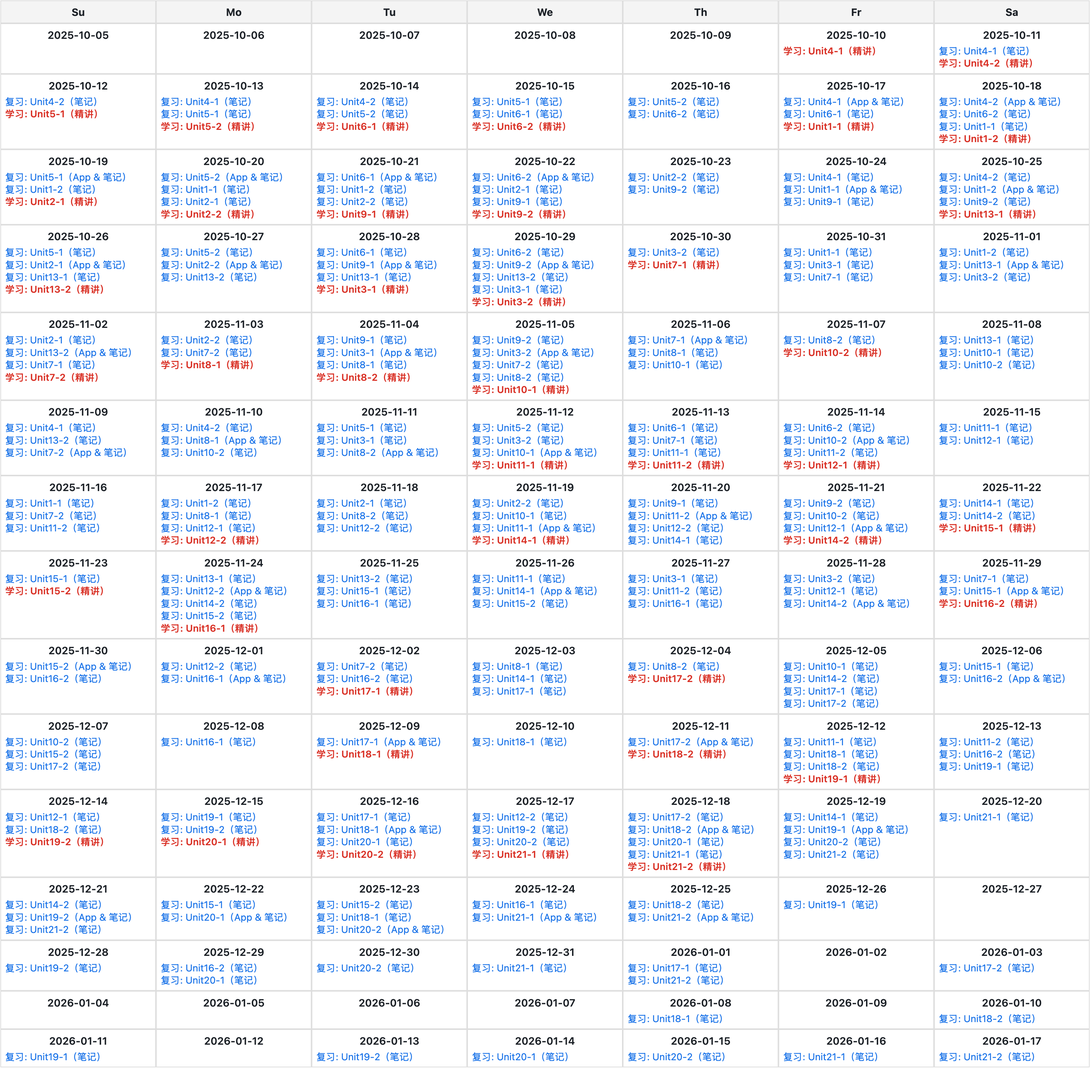
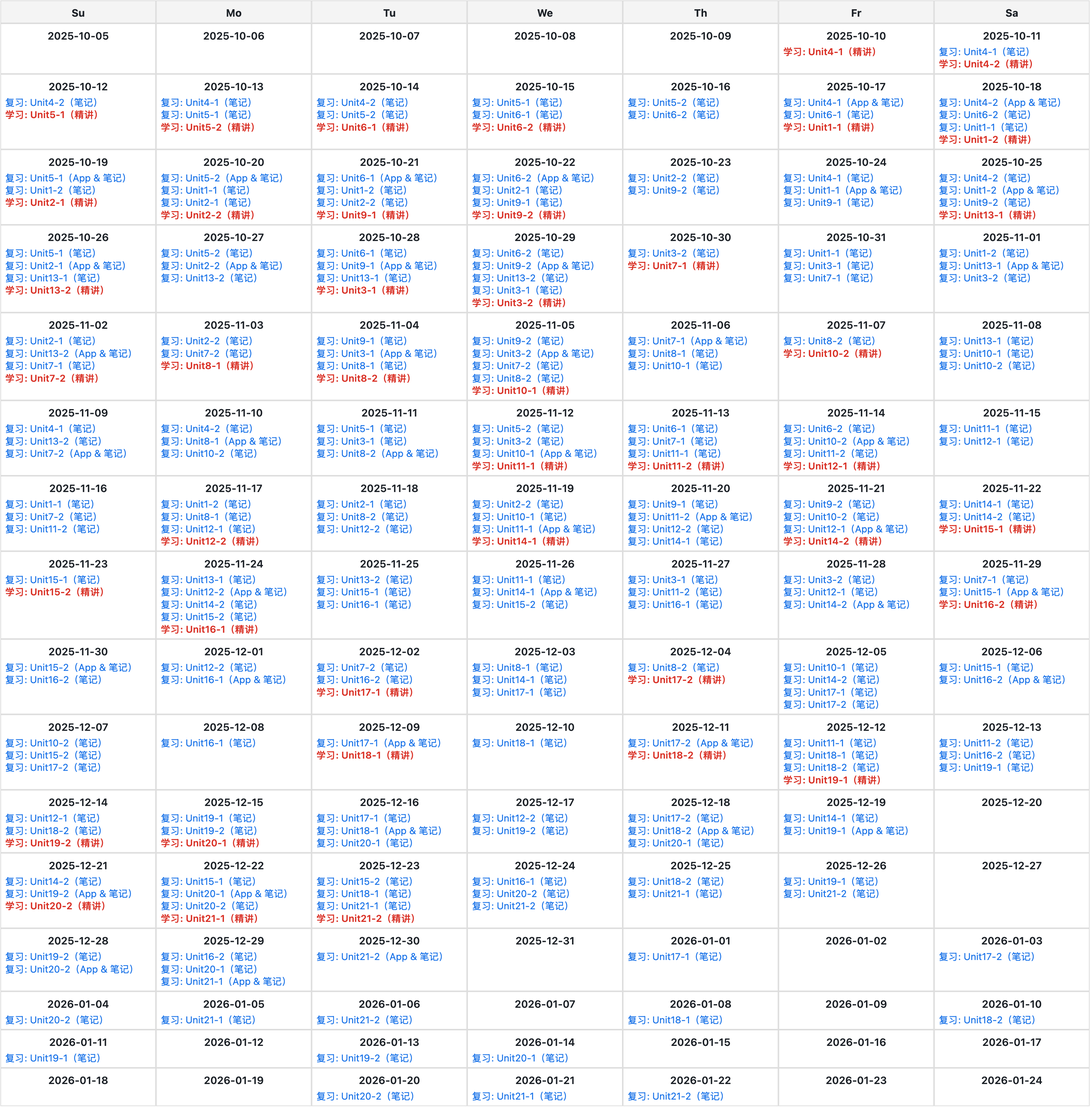
review: Unit 11-1, Unit 17-2

diff --git a/utils/html/generate-forgetting-curve-with-task-duration.html b/utils/html/generate-forgetting-curve-with-task-duration.html
@@ -24,6 +24,24 @@
         .rest-input { width: 100%; box-sizing: border-box; }
         .rounds-container { margin-top: 12px; padding: 6px; border: 1px solid #ddd; border-radius: 6px; }
         .round-input { width: 220px; margin-right: 4px; }
+        .task-type-two-cols {
+            display: grid;
+            grid-template-columns: 1fr 1fr;
+            gap: 24px;
+            margin-bottom: 12px;
+            margin-top: 8px;
+        }
+
+        .task-col {
+            display: flex;
+            flex-direction: column;
+        }
+
+        .task-col label {
+            display: flex;
+            align-items: center;
+            gap: 6px;
+        }
     </style>
     <script src="https://cdn.jsdelivr.net/npm/html2canvas@1.4.1/dist/html2canvas.min.js"></script>
 </head>
@@ -31,18 +49,28 @@
 <h2>艾宾浩斯学习计划生成器（按周日历）</h2>
 
 <div class="controls">
-    <label>选择任务类型:
-        <label><input type="radio" name="task-type" value="write" checked> Write</label>
-        <label><input type="radio" name="task-type" value="writeRecite"> Write Recite</label>
-        <label><input type="radio" name="task-type" value="grammar"> Grammar</label>
-        <label><input type="radio" name="task-type" value="linearAlgebra"> Linear Algebra</label>
-        <label><input type="radio" name="task-type" value="advancedMath"> Advanced Mathematics</label>
-        <label><input type="radio" name="task-type" value="coreWords" checked> Core Words</label>
-        <label><input type="radio" name="task-type" value="lowFrequencyWords&PE" checked> Low-Frequency Words & PE</label>
-        <label><input type="radio" name="task-type" value="advancedMathMo"> Mo Advanced Mathematics</label>
-        <label><input type="radio" name="task-type" value="writeMo"> Mo Write</label>
-        <label><input type="radio" name="task-type" value="lowFrequencyWords&PEMo" checked> Mo Low-Frequency Words & PE</label>
-    </label>
+    <label>选择任务类型:</label>
+
+    <div class="task-type-two-cols">
+        <!-- 左列：常规任务 -->
+        <div class="task-col">
+            <label><input type="radio" name="task-type" value="write"> Write</label>
+            <label><input type="radio" name="task-type" value="writeRecite"> Write Recite</label>
+            <label><input type="radio" name="task-type" value="grammar"> Grammar</label>
+            <label><input type="radio" name="task-type" value="linearAlgebra"> Linear Algebra</label>
+            <label><input type="radio" name="task-type" value="advancedMath"> Advanced Mathematics</label>
+            <label><input type="radio" name="task-type" value="coreWords" checked> Core Words</label>
+            <label><input type="radio" name="task-type" value="lowFrequencyWords&PE"> Low-Frequency Words & PE</label>
+        </div>
+
+        <!-- 右列：Mo 系列 -->
+        <div class="task-col">
+            <label><input type="radio" name="task-type" value="advancedMathMo"> Mo Advanced Mathematics</label>
+            <label><input type="radio" name="task-type" value="writeMo"> Mo Write</label>
+            <label><input type="radio" name="task-type" value="lowFrequencyWords&PEMo"> Mo Low-Frequency Words & PE</label>
+        </div>
+    </div>
+
 
     <button id="load-default-btn" type="button">加载默认设置</button>
 
@@ -186,7 +214,7 @@
         label: 'App & 笔记',
         duration: 1
       }, {label: '笔记', duration: 1}, {label: '笔记', duration: 1}],
-      restDays: '2025-10-16,2025-10-23,2025-10-24,2025-10-27,2025-10-31,2025-11-01,2025-11-06,2025-11-08,2025-11-09,2025-11-10,2025-11-11,2025-11-15,2025-11-16,2025-11-18,2025-11-20,2025-11-25,2025-11-26,2025-11-27,2025-11-28,2025-11-30,2025-12-01,2025-12-03,2025-12-05,2025-12-06,2025-12-07,2025-12-08,2025-12-10,2025-12-13'
+      restDays: '2025-10-16,2025-10-23,2025-10-24,2025-10-27,2025-10-31,2025-11-01,2025-11-06,2025-11-08,2025-11-09,2025-11-10,2025-11-11,2025-11-15,2025-11-16,2025-11-18,2025-11-20,2025-11-25,2025-11-26,2025-11-27,2025-11-28,2025-11-30,2025-12-01,2025-12-03,2025-12-05,2025-12-06,2025-12-07,2025-12-08,2025-12-10,2025-12-13,2025-12-16,2025-12-17,2025-12-18,2025-12-19,2025-12-20'
     },
     write: {
       startDate: '2025-08-12',
@@ -362,21 +390,21 @@
          rounds: [{label: '书', duration: 1}, {label: '复习概念+例题', duration: 1},{label: '做基础题', duration: 2}, {label: '总结', duration: 1}, {label: '做提高题', duration: 2},{label: '复习错题', duration: 1}, {label: '复习笔记', duration: 1}
         ],
       restDays: '2025-12-14,,2025-12-21,2025-12-27,,2025-12-29,,2025-12-31,2026-01-02,2026-01-07,2026-01-09,2026-01-14,2026-01-18,2026-01-21,2026-01-22,2026-01-28,2026-01-29,2026-02-06,2026-02-09'
-    
+
     },
     writeMo: {
       startDate: '2025-12-15',
       reviewDays: '0,1,3,6,15',
       tasks: [
-        {name: '001', duration: 1}, {name: '002', duration: 1}, {name: '003', duration: 1}, {name: '004', duration: 1}, 
+        {name: '001', duration: 1}, {name: '002', duration: 1}, {name: '003', duration: 1}, {name: '004', duration: 1},
         {name: '005', duration: 1}, {name: '006', duration: 1}, {name: '007', duration: 1}, {name: '008', duration: 1},
-        {name: '009', duration: 1}, {name: '010', duration: 1}, 
+        {name: '009', duration: 1}, {name: '010', duration: 1},
         //{name: '011', duration: 1}, {name: '012', duration: 1},
         //{name: '013', duration: 1}, {name: '014', duration: 1}, {name: '015', duration: 1}, {name: '016', duration: 1},
-        //{name: '017', duration: 1}, {name: '018', duration: 1}, {name: '019', duration: 1}, {name: '020', duration: 1}, 
-        {name: '041', duration: 1}, {name: '042', duration: 1}, {name: '043', duration: 1}, {name: '044', duration: 1}, 
+        //{name: '017', duration: 1}, {name: '018', duration: 1}, {name: '019', duration: 1}, {name: '020', duration: 1},
+        {name: '041', duration: 1}, {name: '042', duration: 1}, {name: '043', duration: 1}, {name: '044', duration: 1},
         {name: '045', duration: 1}, {name: '046', duration: 1}, {name: '047', duration: 1}, {name: '048', duration: 1},
-        {name: '049', duration: 1}, {name: '050', duration: 1}, 
+        {name: '049', duration: 1}, {name: '050', duration: 1},
         //{name: '051', duration: 1}, {name: '052', duration: 1},
         //{name: '053', duration: 1}, {name: '054', duration: 1}, {name: '055', duration: 1}, {name: '056', duration: 1},
         //{name: '057', duration: 1}, {name: '058', duration: 1}, {name: '059', duration: 1}, {name: '060', duration: 1}

diff --git a/english/write/041-060_essay.md b/english/write/041-060_essay.md
@@ -61,18 +61,9 @@ In this section, you are asked to write an essay based on the following chart. I
 
 ### Example
 
-&emsp;&emsp;The pie chart clearly illustrates the purposes of touring for students in a certain university. As is
-reflected by the diagram, 37 percent of college students travel in order to appreciate the scenery. Next comes the aim
-of relieving pressure, accounting for 33 percent. By contrast, the percentages of students travelling aiming at other
-goals, making friends and cultivating independence account for 15%, 9% and 6% respectively.<br>
-&emsp;&emsp;Several primary factors could contribute to this phenomenon. In the first place, travel can offer us a wide
-range of experiences. In travelling, we may experience the bitterness and joy of people on different lands and in
-different times. In the second place, college students, who have to juggle academic work, romantic relationships and a
-busy social calendar, are particularly susceptible to pressure. By touring, they can successfully manage and reduce
-stress.<br>
-&emsp;&emsp;Taking all these factors into consideration, we may predict that with the quickening pace and
-ever-increasing pressure of campus life, the number of university students touring will keep growing in the forthcoming
-decade.
+&emsp;&emsp;The pie chart clearly illustrates the purposes of touring for students in a certain university. As is reflected by the diagram, 37 percent of college students travel in order to appreciate the scenery. Next comes the aim of relieving pressure, accounting for 33 percent. By contrast, the percentages of students travelling aiming at other goals, making friends and cultivating independence account for 15%, 9% and 6% respectively.<br> 
+&emsp;&emsp;Several primary factors could contribute to this phenomenon. In the first place, travel can offer us a wide range of experiences. In travelling, we may experience the bitterness and joy of people on different lands and in different times. In the second place, college students, who have to juggle academic work, romantic relationships and a busy social calendar, are particularly susceptible to pressure. By touring, they can successfully manage and reduce stress.<br> 
+&emsp;&emsp;Taking all these factors into consideration, we may predict that with the quickening pace and ever-increasing pressure of campus life, the number of university students touring will keep growing in the forthcoming decade.
 
 ### 译文
 
@@ -93,18 +84,9 @@ In this section, you are asked to write an essay based on the following chart. I
 
 ### Example
 
-&emsp;&emsp;The pie chart above clearly reveals the factors of consumers' concern on choosing restaurants in a certain
-city in 2017. Among all the five categories, the percentages of feature, service and environment are the highest,
-accounting for 36.3%, 26.8% and 23.8% respectively. On the contrary, the statistics of price and other factors take up
-merely 8.4% and 4.7% respectively, the lowest among the five groups.<br>
-&emsp;&emsp;Several primary causes that contribute to the above-mentioned phenomenon could be summarized as follows. In
-the first place, with the prosperity of China's economy and the increase of people's income in recent decades, a large
-number of people are paying more attention to the feature of a restaurant instead of price. In the second place, in a
-bid to develop interpersonal relationship and enjoy comfortable life, consumers in mounting numbers prefer service and
-environment to other factors.<br>
-&emsp;&emsp;With due consideration of all these contributors, we may predict that with the speedy development of our
-society, customers in expanding numbers will attach utmost significance to the feature, service as well as environment
-of a restaurant.
+&emsp;&emsp;The pie chart above clearly reveals the factors of consumers' concern on choosing restaurants in a certain city in 2017. Among all the five categories, the percentages of feature, service and environment are the highest, accounting for 36.3%, 26.8% and 23.8% respectively. On the contrary, the statistics of price and other factors take up merely 8.4% and 4.7% respectively, the lowest among the five groups.<br>
+&emsp;&emsp;Several primary causes that contribute to the above-mentioned phenomenon could be summarized as follows. In the first place, with the prosperity of China's economy and the increase of people's income in recent decades, a large number of people are paying more attention to the feature of a restaurant instead of price. In the second place, in a bid to develop interpersonal relationship and enjoy comfortable life, consumers in mounting numbers prefer service and environment to other factors.<br>
+&emsp;&emsp;With due consideration of all these contributors, we may predict that with the speedy development of our society, customers in expanding numbers will attach utmost significance to the feature, service as well as environment of a restaurant.
 
 ### 译文
 
@@ -150,17 +132,9 @@ In this section, you are asked to write an essay based on the following chart. I
 
 ### Example
 
-&emsp;&emsp;As can be seen from the bar chart above, the express delivery business in China has increased considerably
-between 2018 and 2020. During this three-year period, the total number of express delivery parcels jumped markedly from
-51 billion to 83 billion. In the meantime, the number of express delivery parcels in rural areas rose dramatically from
-12 billion to 30 billion.<br>
-&emsp;&emsp;Why is the express delivery business booming nowadays? Several factors may contribute to this phenomenon. To
-start with, the popularity of electronic commerce and online shopping has laid the foundation for the development of the
-express delivery business. Moreover, as the express delivery business is becoming increasingly mature and relevant laws
-and regulations are improved, people who were at first skeptical about express delivery service now become convinced
-that it is safe and reliable.<br>
-&emsp;&emsp;The boom of the express delivery business undoubtedly contributes to the prosperity of China's economy.
-Accordingly, let us get prepared to embrace this irreversible trend.
+&emsp;&emsp;As can be seen from the bar chart above, the express delivery business in China has increased considerably between 2018 and 2020. During this three-year period, the total number of express delivery parcels jumped markedly from 51 billion to 83 billion. In the meantime, the number of express delivery parcels in rural areas rose dramatically from 12 billion to 30 billion.<br>
+&emsp;&emsp;Why is the express delivery business booming nowadays? Several factors may contribute to this phenomenon. To start with, the popularity of electronic commerce and online shopping has laid the foundation for the development of the express delivery business. Moreover, as the express delivery business is becoming increasingly mature and relevant laws and regulations are improved, people who were at first skeptical about express delivery service now become convinced that it is safe and reliable.<br>
+&emsp;&emsp;The boom of the express delivery business undoubtedly contributes to the prosperity of China's economy. Accordingly, let us get prepared to embrace this irreversible trend.
 
 ### 译文
 
@@ -206,18 +180,9 @@ In this section, you are asked to write an essay based on the following chart. I
 
 ### Example
 
-&emsp;&emsp;The picture vividly depicts a lovely American girl in traditional Chinese costume with a sweet smile on her
-face. She wears ribbons, necklaces and other accessories that are characteristic of the clothes of a certain Chinese
-minority group. Undoubtedly, the costume has added oriental charm to her beautiful features.<br>
-&emsp;&emsp;The fact that people from different countries are attracted to the mysterious Chinese culture indicates that
-to some extent a culture can be accepted, respected, appreciated and shared internationally. In other words, a nation's
-unique culture can become international through worldwide economic and cultural exchanges. Since the trend of
-globalization has become irresistible, increasingly frequent cultural exchanges can effectively improve mutual
-understanding and friendship between countries.<br>
-&emsp;&emsp;It is my view that national culture should be preserved and cherished as a priceless spiritual treasure.
-Nevertheless, when we are confronted with a different culture, we should be sensible enough to absorb its virtues and to
-resist its dark side. Only in this way can we promote culture development positively and make our world
-multidimensional, colorful and vigorous.
+&emsp;&emsp;The picture vividly depicts a lovely American girl in traditional Chinese costume with a sweet smile on her face. She wears ribbons, necklaces and other accessories that are characteristic of the clothes of a certain Chinese minority group. Undoubtedly, the costume has added oriental charm to her beautiful features.<br>
+&emsp;&emsp;The fact that people from different countries are attracted to the mysterious Chinese culture indicates that to some extent a culture can be accepted, respected, appreciated and shared internationally. In other words, a nation's unique culture can become international through worldwide economic and cultural exchanges. Since the trend of globalization has become irresistible, increasingly frequent cultural exchanges can effectively improve mutual understanding and friendship between countries.<br>
+&emsp;&emsp;It is my view that national culture should be preserved and cherished as a priceless spiritual treasure. Nevertheless, when we are confronted with a different culture, we should be sensible enough to absorb its virtues and to resist its dark side. Only in this way can we promote culture development positively and make our world multidimensional, colorful and vigorous.
 
 ### 译文
 
@@ -262,8 +227,7 @@ confronted with, we should never overestimate the difficulties or underestimate 
 
 ### Directions
 
-&emsp;&emsp;Read the following excerpt from an article and write an essay. In your essay, you should explain whether or
-to what extent you agree with the author. Support your argument with reasons and relevant examples.
+&emsp;&emsp;Read the following excerpt from an article and write an essay. In your essay, you should explain whether or to what extent you agree with the author. Support your argument with reasons and relevant examples.
 &emsp;&emsp;Write your answer in about 150 words on the ANSWER SHEET.
 
 &emsp;&emsp;Studies in the U.S. and the U.K. consistently show that children have lost the right to wander. This is why
@@ -275,18 +239,9 @@ screens?
 
 ### Example
 
-&emsp;&emsp;Nowadays, a large number of teenagers have lost the right to play outside and instead indulge in computer
-use. In this excerpt, the author maintains that since parents have robbed their children of the opportunity to wander
-around, a good many youngsters use the computer to socialize with their friends. I agree with the writer's idea.<br>
-&emsp;&emsp;The primary factors that account for the aforementioned phenomenon can be summarized as follows. On the one
-hand, school time can be a period of constant pressure for students. Stressors like upcoming examinations and endless
-assignments take up most of their life, leaving them less and less time for free play. On the other hand, in order not
-to let their children lose at the so-called starting line, many parents force their children to attend various cram
-schools and interest classes, depriving them of the right to play with their peers. Therefore, many teenagers indulge in
-the fictitious world and feel reluctant to approach others.<br>
-&emsp;&emsp;Hence, parents should be sensible enough to give their children more freedom to play with their friends and
-classmates. Meanwhile, it is necessary for teenagers to use technology in a reasonable way and refrain from
-overindulgence.
+&emsp;&emsp;Nowadays, a large number of teenagers have lost the right to play outside and instead indulge in computer use. In this excerpt, the author maintains that since parents have robbed their children of the opportunity to wander around, a good many youngsters use the computer to socialize with their friends. I agree with the writer's idea.<br>
+&emsp;&emsp;The primary factors that account for the aforementioned phenomenon can be summarized as follows. On the one hand, school time can be a period of constant pressure for students. Stressors like upcoming examinations and endless assignments take up most of their life, leaving them less and less time for free play. On the other hand, in order not to let their children lose at the so-called starting line, many parents force their children to attend various cram schools and interest classes, depriving them of the right to play with their peers. Therefore, many teenagers indulge in the fictitious world and feel reluctant to approach others.<br>
+&emsp;&emsp;Hence, parents should be sensible enough to give their children more freedom to play with their friends and classmates. Meanwhile, it is necessary for teenagers to use technology in a reasonable way and refrain from overindulgence.
 
 ### 译文
 

diff --git a/english/write/001-020_letter.md b/english/write/001-020_letter.md
@@ -44,12 +44,8 @@ Do not sign your own name at the end of the letter. Use “Zhang Wei” instead.
 ### Example
 
 Dear Bob,<br>
-&emsp;&emsp;I have just arrived at my home from the airport. As I sit down at my desk, I just want to write a letter to
-you to thank you for your warm **reception** in the **cultural** exchange program. You and your family left a deep
-impression upon me. Indeed, the program is one of the most wonderful **memories** in my life.<br>
-&emsp;&emsp;I remember you **mentioned** wanting to **travel** in China. Well, if you come to China, you will be warmly
-welcomed, and it will be my pleasure to be your guide here. If you would like, send me a list beforehand of the places
-you would like to visit.<br>
+&emsp;&emsp;I have just arrived at my home from the airport. As I sit down at my desk, I just want to write a letter to you to thank you for your warm **reception** in the **cultural** exchange program. You and your family left a deep impression upon me. Indeed, the program is one of the most wonderful **memories** in my life.<br>
+&emsp;&emsp;I remember you **mentioned** wanting to **travel** in China. Well, if you come to China, you will be warmly welcomed, and it will be my pleasure to be your guide here. If you would like, send me a list beforehand of the places you would like to visit.<br> 
 &emsp;&emsp;Please give my best regards to your family.<br>
 <p align="right">Yours,</p>
 <p align="right">Zhang Wei</p>
@@ -80,15 +76,9 @@ Some international students are coming to your university, Write them an email i
 ### Example
 
 Dear friends,<br>
-&emsp;&emsp;On behalf of the Students' Union of Beijing Foreign Studies University, I would like to extend
-our heartfelt welcome to all the overseas students who will study in our university.<br>
-&emsp;&emsp;It is my great pleasure to offer you several practical suggestions. In the first place, life in
-this prestigious university is perhaps not as easy as you have expected. You may be tightly bound by daily classes,
-abundant homework and frequent exams. Thus, be prepared for the hectic life here. In the second place, in spite of all
-those burdens, various extracurricular activities such as sports meets, speech contests and social gatherings will still
-provide ample opportunities to make friends. So, enjoy your life in this esteemed institute!<br>
-&emsp;&emsp;All in all, although there is a lot of pressure, the time you spend on our campus will be
-worthwhile and enhance your whole life. Hope you like it here.<br>
+&emsp;&emsp;On behalf of the Students' Union of Beijing Foreign Studies University, I would like to extend our heartfelt welcome to all the overseas students who will study in our university.<br> 
+&emsp;&emsp;It is my great pleasure to offer you several practical suggestions. In the first place, life in this prestigious university is perhaps not as easy as you have expected. You may be tightly bound by daily classes, abundant homework and frequent exams. Thus, be prepared for the hectic life here. In the second place, in spite of all those burdens, various extracurricular activities such as sports meets, speech contests and social gatherings will still provide ample opportunities to make friends. So, enjoy your life in this esteemed institute!<br> 
+&emsp;&emsp;All in all, although there is a lot of pressure, the time you spend on our campus will be worthwhile and enhance your whole life. Hope you like it here.<br>
 <p align="right">Yours sincerely,</p>
 <p align="right">Li Ming</p>
 
@@ -119,13 +109,9 @@ Do not write the address.
 ### Example
 
 Dear Sir or Madam,<br>
-&emsp;&emsp;I bought an electronic dictionary from your online store on January 1st, but after using it for a short
-period of time, I found it has some problems.<br>
-&emsp;&emsp;To begin with, the battery needs recharging after a mere 2 hours of use. This means that I need to carry my
-charger with me when I go out for a day. In addition, the buttons on the electronic dictionary are so small that it is
-nearly impossible to type anything with them. Personally, I find this to be completely unacceptable.<br>
-&emsp;&emsp;Therefore, I would like either to change to another model that works better or a full refund. Your help is
-greatly appreciated.<br>
+&emsp;&emsp;I bought an electronic dictionary from your online store on January 1st, but after using it for a short period of time, I found it has some problems.<br>
+&emsp;&emsp;To begin with, the battery needs recharging after a mere 2 hours of use. This means that I need to carry my charger with me when I go out for a day. In addition, the buttons on the electronic dictionary are so small that it is nearly impossible to type anything with them. Personally, I find this to be completely unacceptable.<br> 
+&emsp;&emsp;Therefore, I would like either to change to another model that works better or a full refund. Your help is greatly appreciated.<br>
 <p align="right">Yours sincerely,</p>
 <p align="right">Zhang Wei</p>
 
@@ -153,13 +139,8 @@ the upcoming English speech contest.
 ### Example
 
 Dear Professor Smith,<br>
-&emsp;&emsp;On behalf of the "Talents" English Speech Contest committee, I am writing to invite you to serve as one of
-our judges.<br>
-&emsp;&emsp;As a key event of the "Foreign Culture Festival", this school-wide contest is to be held in the Students'
-Auditorium on May 12 (next Sunday). And we believe that you can provide some valuable and enlightening comments for our
-competitors as both a native English speaker and a knowledgeable professor. Specifically, the event will start at around
-7:00 p.m. and last for two hours at most. At the end of it, we will have some hand-made presents for each judge and
-competitor.<br>
+&emsp;&emsp;On behalf of the "Talents" English Speech Contest committee, I am writing to invite you to serve as one of our judges.<br>
+&emsp;&emsp;As a key event of the "Foreign Culture Festival", this school-wide contest is to be held in the Students' Auditorium on May 12 (next Sunday). And we believe that you can provide some valuable and enlightening comments for our competitors as both a native English speaker and a knowledgeable professor. Specifically, the event will start at around 7:00 p.m. and last for two hours at most. At the end of it, we will have some hand-made presents for each judge and competitor.<br>
 &emsp;&emsp;Once again, we sincerely hope you can be the judge for our competition.
 <p align="right">Yours sincerely,</p>
 <p align="right">Li Ming</p>

diff --git a/english/write/essay-materials.md b/english/write/essay-materials.md
@@ -206,5 +206,18 @@
 - promotes/boosts economy development
 - poomotes/boosts local economic development
 
+## First
+
+- The table above clearly illustrates the statistics of staff's job satisfaction in a certain company. According to the data given above, we can conclude that the percentage of people satisfied with their jobs is the highest among those over 50 years old, at about 40%. In contrast, the percentage of the staff not satisfied with their jobs is about 64% among those in their forties, the highest among all the three age groups.<br>
+- The pie chart above clearly illustrates the purposes of touring for students in a certain university. According to the data given above, 37 percent of college students travel in order to appreciate the scenery. Next comes the aim of relieving pressure, accounting for 33 percent. By contrast, the percentages of students travelling aiming at other goals, making friends and cultivating independence account for 15%, 9% and 6% respectively.<br>
+- The bar chart above clearly illustrates the results of a survey on the types of exercise among residents in a certain city. According to the data given above, the percentage of people exercising alone accounts for 54.3%, the highest among the four categories. The percentages of people exercising with friends, family and by taking part in group activities take up 47.7%, 23.9% and 15.8% respectively.<br>
+- The pie chart above clearly illustrates the factors of consumers' concern on choosing restaurants in a certain city in 2017. Among all the five categories, the percentages of feature, service and environment are the highest, accounting for 36.3%, 26.8% and 23.8% respectively. On the contrary, the statistics of price and other factors take up merely 8.4% and 4.7% respectively, the lowest among the five groups.<br>
+- The column chart above clearly illustrates a considerable increase in the express delivery business in China between 2018 and 2020. During this three-year period, the total number of express delivery parcels jumped markedly from 51 billion to 83 billion. In the meantime, the number of express delivery parcels in rural areas rose dramatically from 12 billion to 30 billion.<br>
+- The column chart above clearly illustrate a striking contrast between developing and developed countries in mobile-phone subscriptions from 2000 to 2008. During this period, there has been a dramatic increase from 0.4 to 4 billion mobile-phone subscriptions in developing countries, while those of developed countries remained steady at just under 1 billion.<br>
+- The diagram above clearly illustrates a dramatic increase in the recruitment of Master of Engineering(ME) in China during the past seven years. In 1998, the number was at a low of only about 2,500. Surprisingly, it reached more than 35,000 in 2004, within no more than seven years.<br>
+
+- The picture vividly depicts a lovely American girl in traditional Chinese costume with a sweet smile on her face. She wears ribbons, necklaces and other accessories that are characteristic of the clothes of a certain Chinese minority group. Undoubtedly, the costume has added oriental charm to her beautiful features.<br>
+- Nowadays, a large number of teenagers have lost the right to play outside and instead indulge in computer use. In this excerpt, the author maintains that since parents have robbed their children of the opportunity to wander around, a good many youngsters use the computer to socialize with their friends. I agree with the writer's idea.<br>
+
 
 

diff --git a/english/word/core/Unit11-1.md b/english/word/core/Unit11-1.md
@@ -101,7 +101,7 @@
     - forge ahead (with sth) 继续努力前进；坚定地推进（某事）
     - He again *pledged(vt. 承诺)* to <ins>**forge** ahead with</ins> his plans for reform.
         - | 用法       | 含义     | 示例                        |
-                                                                                                    |----------|--------|---------------------------|
+          |----------|--------|---------------------------|
           | for + 目的 | 为了...  | plans for reform（改革计划）    |
           | for + 用途 | 用于...  | tools for cutting（一种切割工具） |
           | for + 好处 | 对...有利 | good for you              |
@@ -147,7 +147,7 @@
     - vt. 建立关系；纽带；债券；羁绊
     - bond with sb. 建立情感联系
     - They may have <ins>**bonded** more with</ins> the social robot because it displayed behaviors like
-      communal([kəˈmjuːnl] adj. 集体的) *exploring([ɪks'plɔrɪŋ] vt. 探索)* and playing.
+      *communal([kəˈmjuːnl] adj. 集体的)* *exploring([ɪks'plɔrɪŋ] vt. 探索)* and playing.
 - conjunction [kənˈdʒʌŋkʃn]
     - n. 结合；同时发生
     - 词组
@@ -158,7 +158,7 @@
 - adhere [ədˈhɪr]
     - vi. 遵守
     - == cling
-    - adhere to (doing) sth.
+    - adhere/cling to (doing) sth.
     - All members of the association **adhere** to a strict <ins>code of practice(行为规范、操作准则)</ins>.
     - <ins>For years(多年来)</ins> executives and headhunters have **adhered** to the rule that the most attractive CEO
       candidates are the ones who must be poached.

diff --git a/english/write/letter-materials.md b/english/write/letter-materials.md
@@ -17,3 +17,16 @@
 | **in** | 月份、年份、季节、较长时间 | in May, in 2025, in the morning |
 | **on** | **具体日期/星期**   | on May 12, on Sunday            |
 | **at** | **具体时间点**     | at 3 pm, at midnight            |
+
+
+## End
+
+- Please give my best regards to your family.
+- Once again, we sincerely hope you can be the judge for our competition.
+- I hope you find the above recommendations useful. Looking forward to your successful presentation.
+- Therefore, I would like either to change to another model that works better or a full refund. Your help is greatly appreciated.
+- Please excuse me for not being able to inform you of my situation sooner. Your prompt attention to my suggestion would be highly appreciated.
+- All in all, although there is a lot of pressure, the time you spend on our campus will be worthwhile and enhance your whole life. Hope you like it here.
+- I hope you will have the opportunity to visit one or both of these spots. We wish you an enjoyable stay in our city.
+- This event is going to be held in the Students' Recreation Center from 10:00 am to 4:00 pm on May 1, 2025. Could you please help me to write the letters of invitation to all the craftsmen? Looking forward to your support.
+- Since you excel in acting, I cordially invite you to participate in the play and act as the leading hero, Zhuge Liang. I'm sure you will be quite interested in it. Looking forward to your reply.

diff --git a/english/word/core/Unit17-2.md b/english/word/core/Unit17-2.md
@@ -138,13 +138,15 @@
 
 - adv. 此外，而且
 - == moreover == in addition
-- further
+- further [ˈfɜːrðər]
     - adv. （空间距离）较/更远地; (时间上)更(早或晚); 更极端地; (发展中)进一步地; 在更大程度上; 而且
     - adj. 更多的; 附加的
     - v. 促进; 增进
-    - future
-        - n. 未来; 前途; 未来的事; 期货
-        - adj. 未来的
+    - future [ˈfjuːtʃər] n. 未来; 前途;
+    - feature  [ˈfiːtʃər]
+        - vt. 以...为特色
+        - vi. 起重要作用
+        - n. 特点；（报纸、电视等的）特写
 - moreover adv. 此外，而且
 
 ## emission
